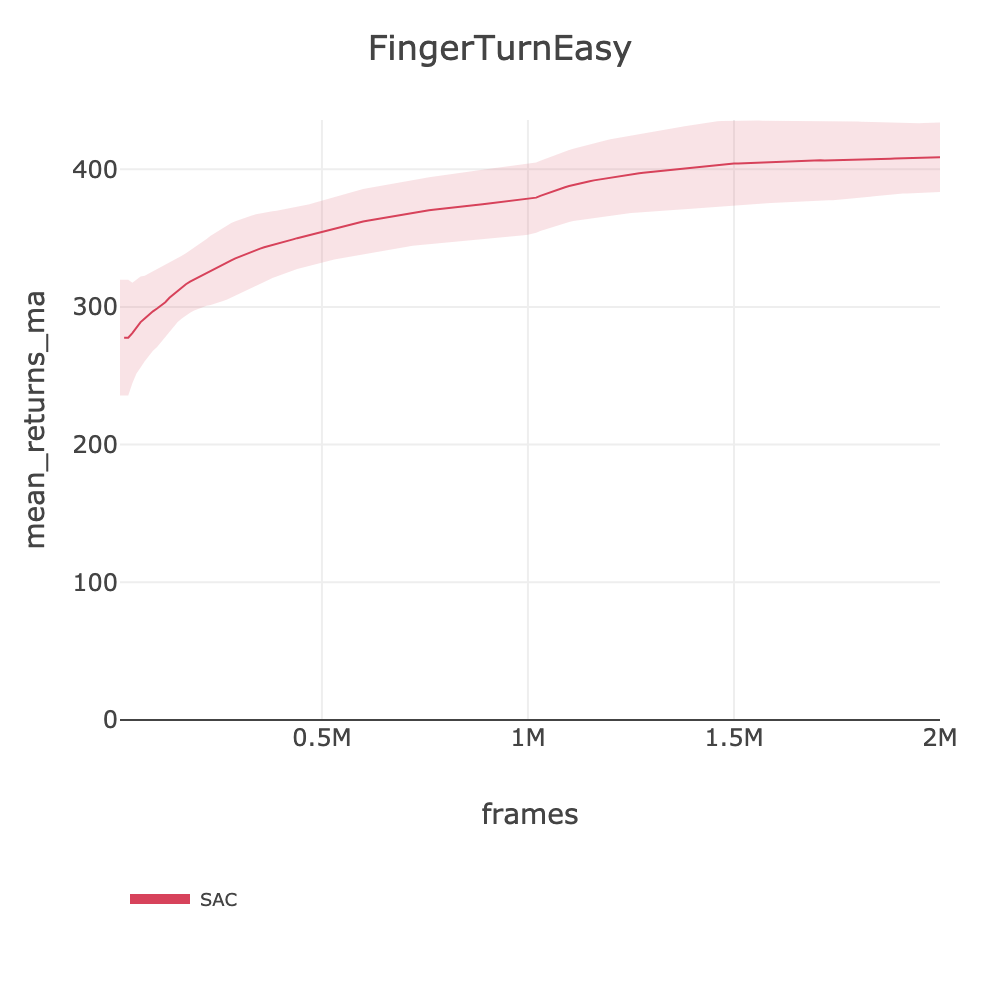
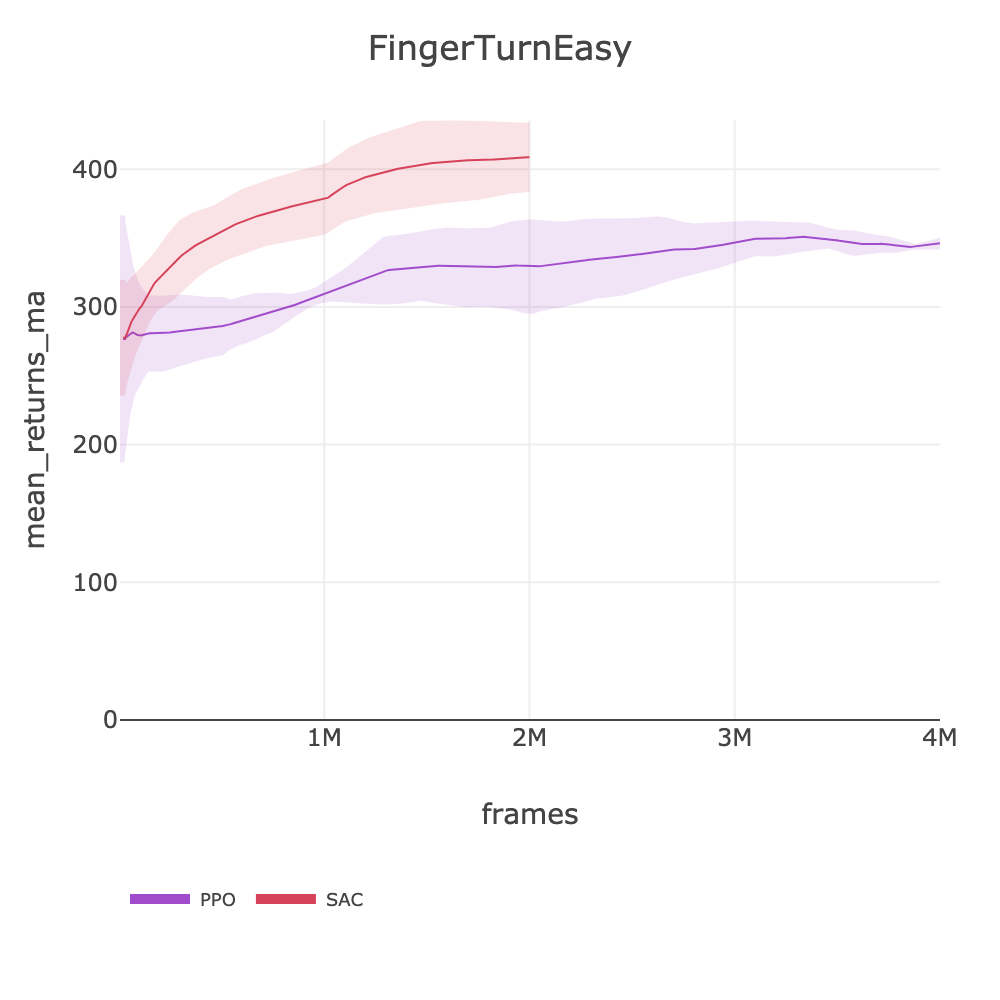
feat: Phase 5 FingerSpin PPO 4M (416.99), FingerTurnEasy PPO 4M (346.28)

diff --git a/docs/BENCHMARKS.md b/docs/BENCHMARKS.md
@@ -802,8 +802,10 @@ source .env && slm-lab run-remote --gpu -s env=playground/CartpoleBalance -s max
 | | SAC | 0.38 | | ~67 (hard/16e) | 1M | ~4.6h | [sac_playground_arc_utd1_cartpoleswingupsparse_2026_03_06_221127](https://huggingface.co/datasets/SLM-Lab/benchmark-dev/tree/main/data/sac_playground_arc_utd1_cartpoleswingupsparse_2026_03_06_221127) |
 | playground/CheetahRun | PPO | 53.61 | ~839 | ~2000 (256e) | 2M | ~0.3h | [ppo_playground_arc_cheetahrun_2026_03_06_134309](https://huggingface.co/datasets/SLM-Lab/benchmark-dev/tree/main/data/ppo_playground_arc_cheetahrun_2026_03_06_134309) |
 | | SAC | 112.59 | | ~140 (fast/64e) | 2M | ~4h | [sac_playground_arc_cheetahrun_2026_03_06_094013](https://huggingface.co/datasets/SLM-Lab/benchmark-dev/tree/main/data/sac_playground_arc_cheetahrun_2026_03_06_094013) |
-| playground/FingerSpin | SAC | 327.57 | ~742 | ~350 (fast/64e) | 1M | ~0.8h | [sac_playground_arc_fingerspin_2026_03_06_150750](https://huggingface.co/datasets/SLM-Lab/benchmark-dev/tree/main/data/sac_playground_arc_fingerspin_2026_03_06_150750) |
-| playground/FingerTurnEasy | SAC | 408.73 | ~709 | ~350 (fast/64e) | 1M | ~0.8h | [sac_playground_arc_fingerturneasy_2026_03_06_134326](https://huggingface.co/datasets/SLM-Lab/benchmark-dev/tree/main/data/sac_playground_arc_fingerturneasy_2026_03_06_134326) |
+| playground/FingerSpin | PPO | 416.99 | ~742 | ~410 (256e) | 4M | ~2.7h | [ppo_playground_arc_fingerspin_2026_03_07_100519](https://huggingface.co/datasets/SLM-Lab/benchmark-dev/tree/main/data/ppo_playground_arc_fingerspin_2026_03_07_100519) |
+| | SAC | 327.57 | | ~350 (fast/64e) | 1M | ~0.8h | [sac_playground_arc_fingerspin_2026_03_06_150750](https://huggingface.co/datasets/SLM-Lab/benchmark-dev/tree/main/data/sac_playground_arc_fingerspin_2026_03_06_150750) |
+| playground/FingerTurnEasy | PPO | 346.28 | ~709 | ~409 (256e) | 4M | ~2.7h | [ppo_playground_arc_fingerturneasy_2026_03_07_100527](https://huggingface.co/datasets/SLM-Lab/benchmark-dev/tree/main/data/ppo_playground_arc_fingerturneasy_2026_03_07_100527) |
+| | SAC | 408.73 | | ~350 (fast/64e) | 1M | ~0.8h | [sac_playground_arc_fingerturneasy_2026_03_06_134326](https://huggingface.co/datasets/SLM-Lab/benchmark-dev/tree/main/data/sac_playground_arc_fingerturneasy_2026_03_06_134326) |
 | playground/FingerTurnHard | SAC | 198.22 | ~249 | ~413 (fast/64e) | 2M | ~1.3h | [sac_playground_arc_fast_fingerturnhard_2026_03_06_181841](https://huggingface.co/datasets/SLM-Lab/benchmark-dev/tree/main/data/sac_playground_arc_fast_fingerturnhard_2026_03_06_181841) |
 | playground/FishSwim | SAC | 98.57 | ~136 | ~114 (baseline/16e) | 2M | ~4.7h | [sac_playground_arc_fishswim_2026_03_06_134402](https://huggingface.co/datasets/SLM-Lab/benchmark-dev/tree/main/data/sac_playground_arc_fishswim_2026_03_06_134402) |
 | playground/HopperHop | SAC | 1.56 | ~295 | ~67 (hard/16e) | 1M | ~4.6h | [sac_playground_arc_utd1_hopperhop_2026_03_06_235252](https://huggingface.co/datasets/SLM-Lab/benchmark-dev/tree/main/data/sac_playground_arc_utd1_hopperhop_2026_03_06_235252) |
